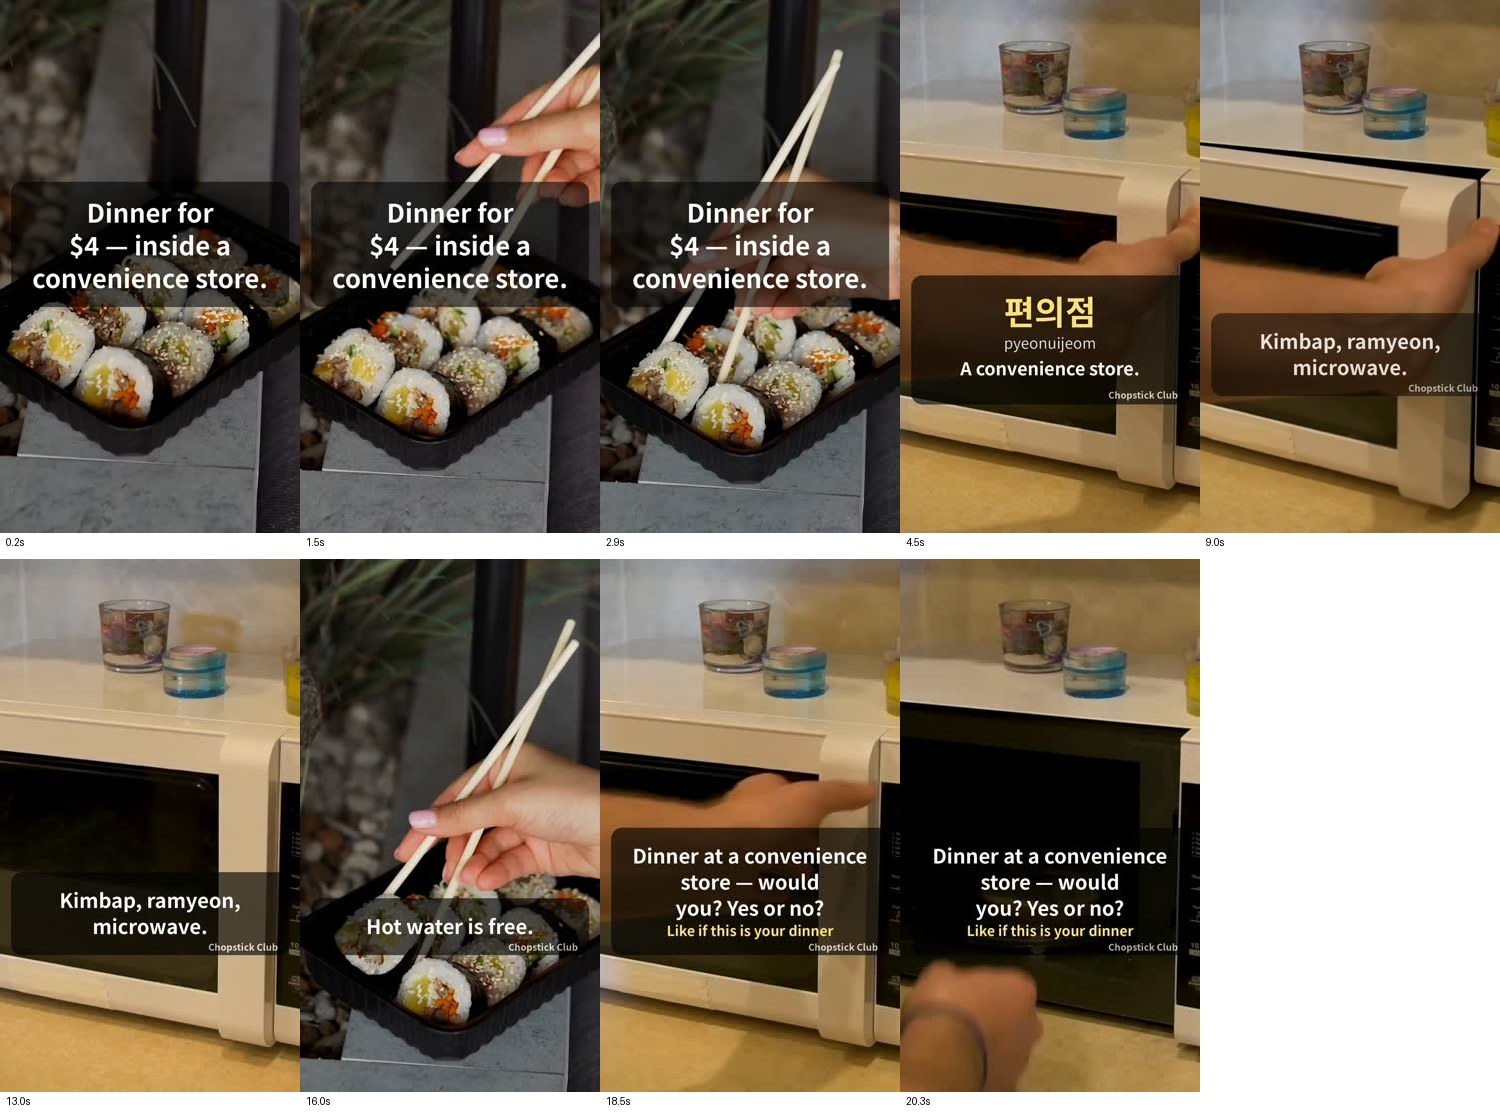
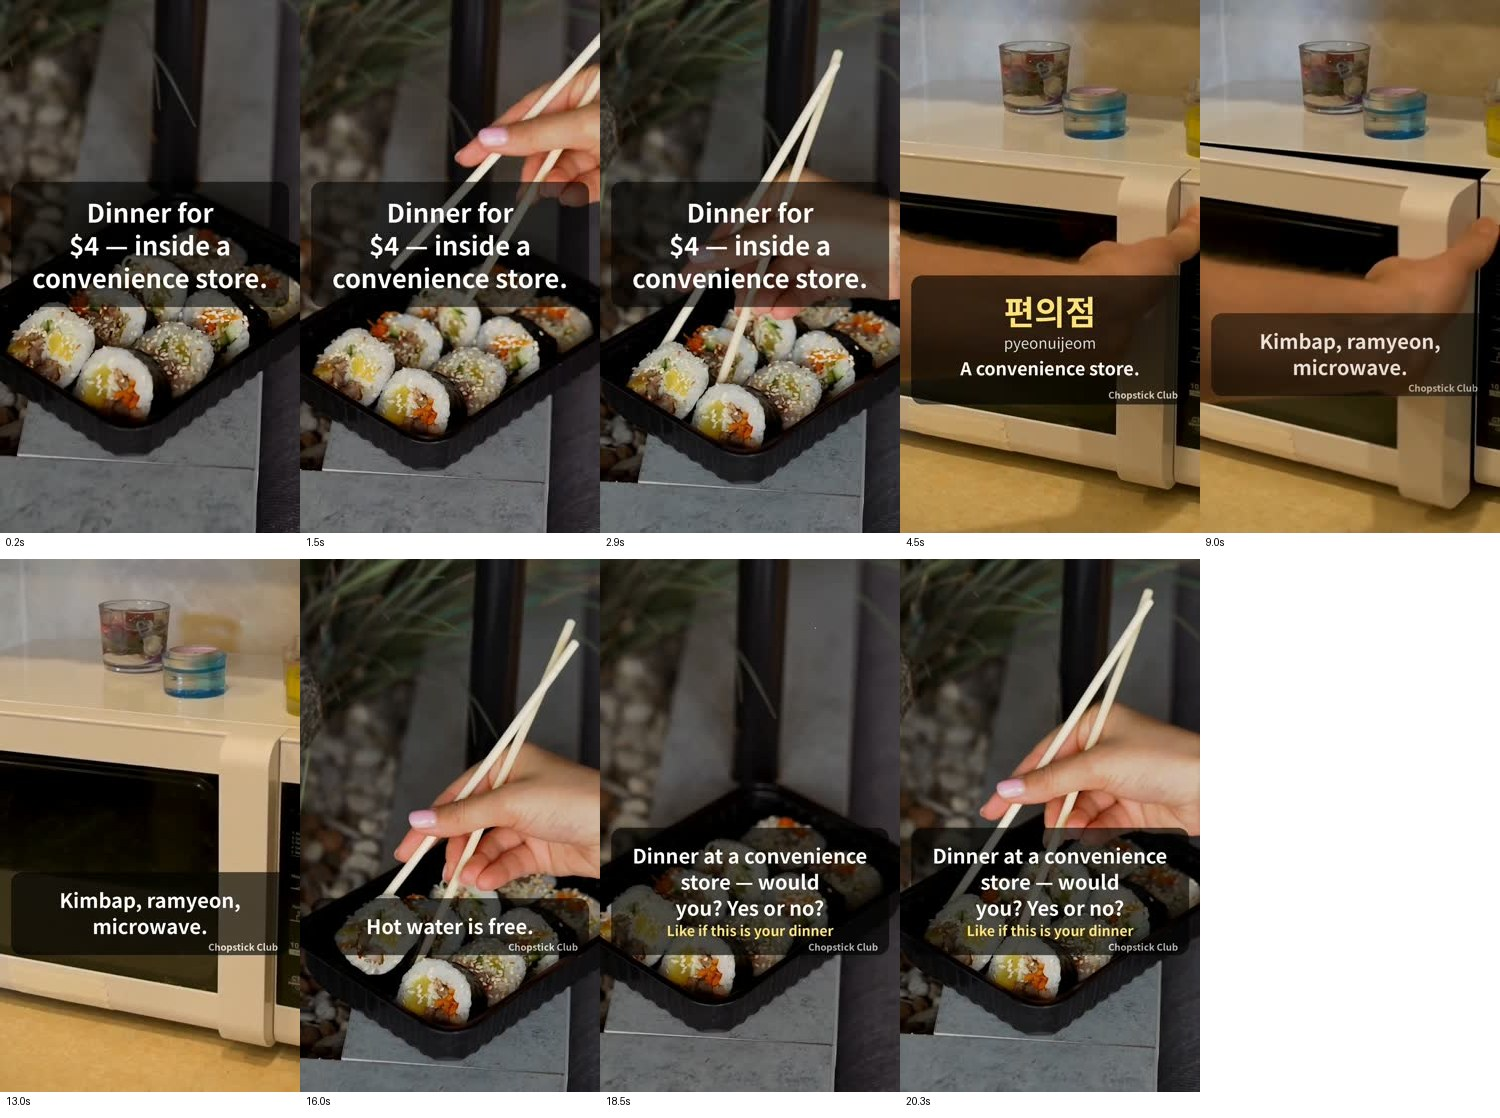
evidence: ep008 final frames after the CTA loop fix

Changed region(s): [[0.3987, 0.4866, 0.828, 1.0]]

diff --git a/evidence/ep007-011-v5-1121/README.md b/evidence/ep007-011-v5-1121/README.md
@@ -8,10 +8,12 @@
 | 편 | 길이 | 워크플로 런 | 아티팩트 |
 |---|---|---|---|
 | ep007 아이고 | 20.80초 | 44822621321 (success, 커밋 5a6ac79) | shorts-28 |
-| ep008 편의점 | 20.90초 | 44822621321 (success) | shorts-28 |
+| ep008 편의점 | 20.90초 | 44823888503 (success, CTA 루프 수정 후 최종) | shorts-30 |
 | ep009 카공 | 21.00초 | 44823535587 (success, workflow_dispatch) | shorts-29 |
 | ep010 찜질방 | 20.63초 | 44822621321 (success) | shorts-28 |
 | ep011 배려석 | 21.30초 | 44822621321 (success) | shorts-28 |
+
+ep008은 처음 빌드에서 CTA 클립이 훅(김밥)이 아니라 전자레인지로 끝나 루프가 끊겨, `cta.video`를 훅 클립으로 바꿔 다시 빌드했다(커밋 9e44db3, 런 44823888503).
 
 - 저장 위치: `downloads/chopstick-shorts/` (평면 파일 + 편별 폴더). v4 산출물은 `downloads/chopstick-shorts/v4-archive-1120/`로 옮겨 둠.
 - 각 편 구성: `.mp4`(1080x1920, 30fps) · `.en/.vi/.id/.es/.pt/.ar/.fil/.hi .srt`(8개) · `.upload.txt`
@@ -40,6 +42,7 @@
 - **ep009 신규 `vid2.mp4`**: Pexels `cozy-outdoor-cafe-vibes-with-latte-and-laptop-31933844` (Buse Çolak, 1080x1920, 6.48초, 무료 라이선스). 사람 없이 카페 테이블 위에 남겨진 노트북·라떼·책. 0~3초 훅과 엔딩 루프에 사용. 에스프레소 붓기(vid1)는 화면에서 제외.
 - **ep008 훅**: 클로드 안의 vid1(전자레인지 문) 대신 vid0(김밥)으로 훅을 옮겼다. 0초 화면이 어두운 문이라 "0~0.5초 결과 노출" 규격에 맞지 않았기 때문. 전자레인지는 이유 장면으로 이동.
 - ep007·ep010·ep011은 기존 클립 배치만 v5에 맞게 재배치(새 다운로드 없음).
+- 모든 편의 엔딩(CTA)은 훅과 같은 클립으로 되돌아가 처음 장면과 이어진다(ep008 포함, 2026-11-21 수정).
 
 ## 5. 검수
 
